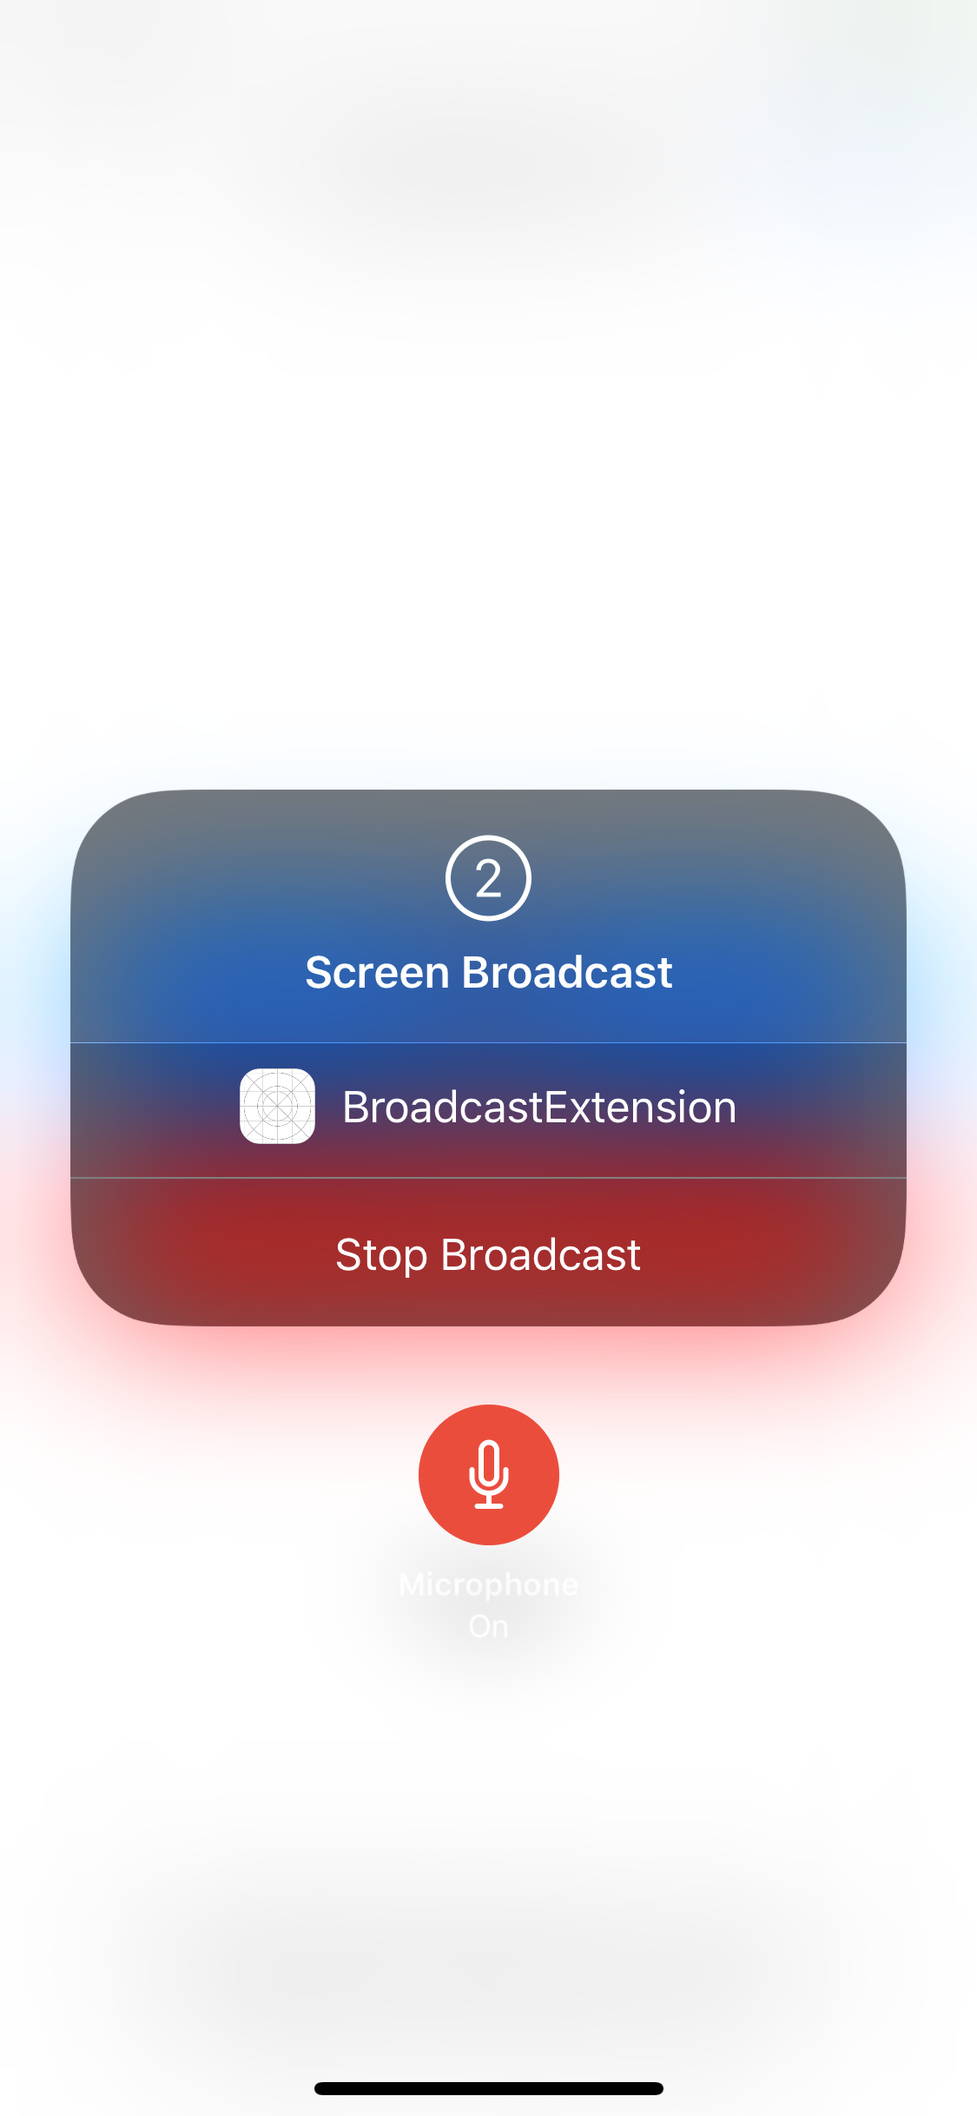
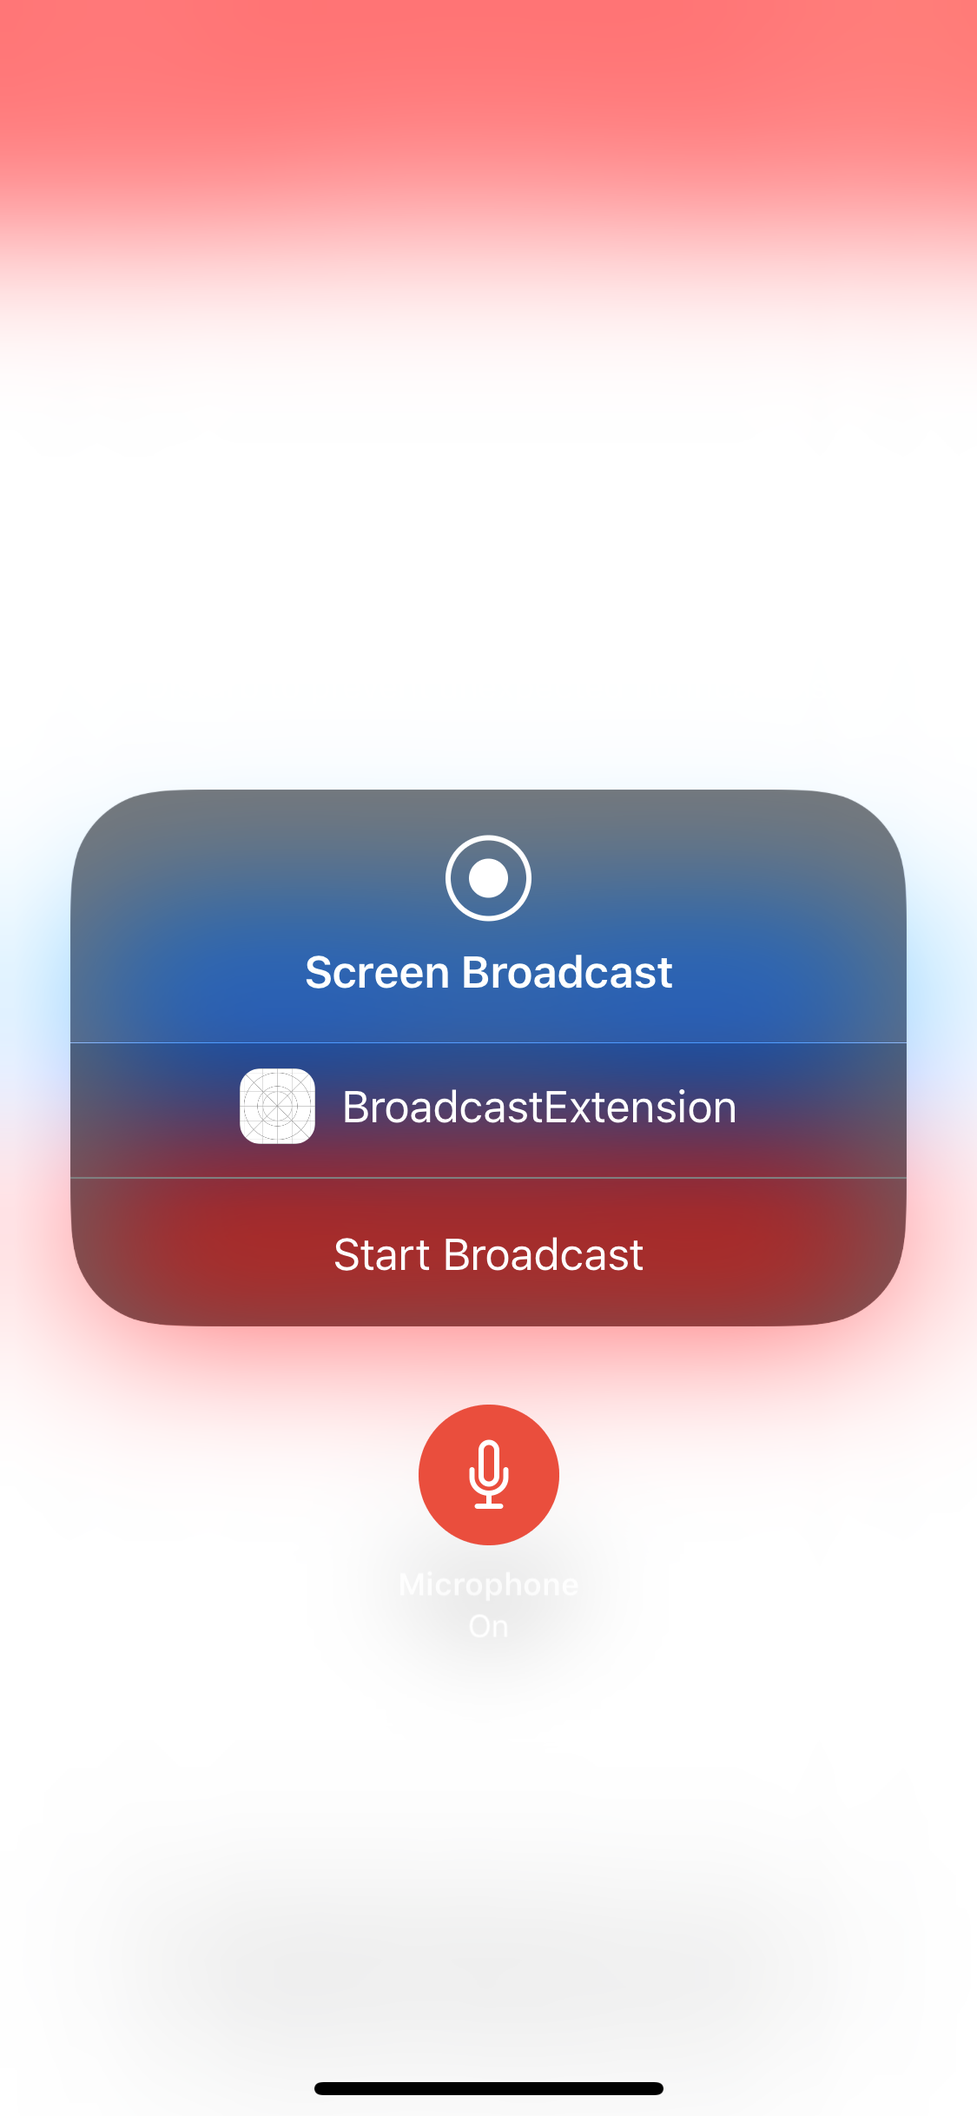
ISDK-1699: Add support for the iPhone X, XS, XR (#315)
* Use safe area for ScreenCapturerExample preview layout.
* Use safe area for AudioDeviceExample preview layout.
* Use safe area for AudioSinkExample layout.
* Local video preview.
* Text label when recognizing audio.
* Automatically hide the home indicator in ARKitExample.
* Settings ViewController UX improvements.
* Use a red theme for ReplayKitExample.
* Theme the UINavigationBar for white tint color, twilio red bar tint, and black bar style.
* Theme the RPBroadcastSystemPickerView to match with white tint.
* Use #if !targetEnvironment(simulator) macro.
* Update the ReplayKit example images.
* Hide auto home indicator when connected to a Room in QS / CallKit QS.

diff --git a/Utils/SettingsTableViewController.swift b/Utils/SettingsTableViewController.swift
@@ -38,6 +38,22 @@ class SettingsTableViewController: UITableViewController {
                                              attributes: [ NSAttributedString.Key.font: disclaimerFont ],
                                              context: nil).size
     }
+
+    @objc func deselectSelectedRow() {
+        if let selectedRow = self.tableView.indexPathForSelectedRow {
+            self.tableView.deselectRow(at: selectedRow, animated: true)
+        }
+    }
+
+    @objc func reloadSelectedRowOrTableView() {
+        if let selectedRow = self.tableView.indexPathForSelectedRow {
+            self.tableView.reloadRows(at: [selectedRow], with: UITableView.RowAnimation.none)
+            self.tableView.selectRow(at: selectedRow, animated: false, scrollPosition: UITableView.ScrollPosition.none)
+            self.tableView.deselectRow(at: selectedRow, animated: true)
+        } else {
+            self.tableView.reloadData()
+        }
+    }
     
     override func numberOfSections(in tableView: UITableView) -> Int {
         return (labels.count)
@@ -138,7 +154,7 @@ class SettingsTableViewController: UITableViewController {
         for codec in selectionArray {
             let selectionButton = UIAlertAction(title: codec.name, style: .default, handler: { (action) -> Void in
                 self.settings.audioCodec = codec
-                self.tableView.reloadData()
+                self.reloadSelectedRowOrTableView()
             })
             
             if (settings.audioCodec == codec) {
@@ -151,7 +167,7 @@ class SettingsTableViewController: UITableViewController {
         // The default action
         defaultButton = UIAlertAction(title: "Default", style: .default, handler: { (action) -> Void in
             self.settings.audioCodec = nil
-            self.tableView.reloadData()
+            self.reloadSelectedRowOrTableView()
         })
         
         if selectedButton == nil {
@@ -167,7 +183,9 @@ class SettingsTableViewController: UITableViewController {
             selectedButton?.setValue("true", forKey: "checked")
             
             // Adding the cancel action
-            let cancelButton = UIAlertAction(title: "Cancel", style: .cancel, handler: { (action) -> Void in })
+            let cancelButton = UIAlertAction(title: "Cancel", style: .cancel, handler: { (action) -> Void in
+                self.deselectSelectedRow()
+            })
             alertController.addAction(cancelButton)
         }
         self.navigationController!.present(alertController, animated: true, completion: nil)
@@ -178,7 +196,7 @@ class SettingsTableViewController: UITableViewController {
         
         let defaultButton = UIAlertAction(title: "Default", style: .default, handler: { (action) -> Void in
             self.settings.videoCodec = nil
-            self.tableView.reloadData()
+            self.reloadSelectedRowOrTableView()
         })
         
         let alertController = UIAlertController(title: self.labels[indexPath.section][indexPath.row], message: nil, preferredStyle: .actionSheet)
@@ -189,7 +207,7 @@ class SettingsTableViewController: UITableViewController {
                                                 style: .default,
                                                 handler: { (action) -> Void in
                 self.settings.videoCodec = codec
-                self.tableView.reloadData()
+                self.reloadSelectedRowOrTableView()
             })
             
             if (settings.videoCodec == codec) {
@@ -222,7 +240,9 @@ class SettingsTableViewController: UITableViewController {
             selectedButton?.setValue("true", forKey: "checked")
             
             // Adding the cancel action
-            let cancelButton = UIAlertAction(title: "Cancel", style: .cancel, handler: { (action) -> Void in })
+            let cancelButton = UIAlertAction(title: "Cancel", style: .cancel, handler: { (action) -> Void in
+                self.deselectSelectedRow()
+            })
             alertController.addAction(cancelButton)
         }
         self.navigationController!.present(alertController, animated: true, completion: nil)
@@ -232,7 +252,7 @@ class SettingsTableViewController: UITableViewController {
         let alertController = UIAlertController(title: self.labels[indexPath.section][indexPath.row], message: nil, preferredStyle: .alert)
         
         alertController.addTextField  { (textField : UITextField!) -> Void in
-            textField.text = String(self.settings.maxAudioBitrate)
+            textField.text = self.settings.maxAudioBitrate == 0 ? "" : String(self.settings.maxAudioBitrate)
             textField.placeholder = "Max audio bitrate"
             textField.keyboardType = .numberPad
         }
@@ -241,12 +261,14 @@ class SettingsTableViewController: UITableViewController {
             let maxAudioBitrate = alertController.textFields![0] as UITextField
             if maxAudioBitrate.text! != "" {
                 self.settings.maxAudioBitrate = UInt(maxAudioBitrate.text!)!
-                self.tableView.reloadData()
+                self.reloadSelectedRowOrTableView()
             }
         })
         alertController.addAction(okAction)
         
-        let cancelAction = UIAlertAction(title: "Cancel", style: .cancel, handler: { (action) -> Void in })
+        let cancelAction = UIAlertAction(title: "Cancel", style: .cancel, handler: { (action) -> Void in
+            self.deselectSelectedRow()
+        })
         alertController.addAction(cancelAction)
         
         if UIDevice.current.userInterfaceIdiom == .pad {
@@ -260,7 +282,7 @@ class SettingsTableViewController: UITableViewController {
         let alertController = UIAlertController(title: self.labels[indexPath.section][indexPath.row], message: nil, preferredStyle: .alert)
         
         alertController.addTextField  { (textField : UITextField!) -> Void in
-            textField.text = String(self.settings.maxVideoBitrate)
+            textField.text = self.settings.maxVideoBitrate == 0 ? "" : String(self.settings.maxVideoBitrate)
             textField.placeholder = "Max video bitrate"
             textField.keyboardType = .numberPad
         }
@@ -269,12 +291,14 @@ class SettingsTableViewController: UITableViewController {
             let maxVideoBitrate = alertController.textFields![0] as UITextField
             if maxVideoBitrate.text! != "" {
                 self.settings.maxVideoBitrate = UInt(maxVideoBitrate.text!)!
-                self.tableView.reloadData()
+                self.reloadSelectedRowOrTableView()
             }
         })
         alertController.addAction(okAction)
         
-        let cancelAction = UIAlertAction(title: "Cancel", style: .cancel, handler: { (action) -> Void in })
+        let cancelAction = UIAlertAction(title: "Cancel", style: .cancel, handler: { (action) -> Void in
+            self.deselectSelectedRow()
+        })
         alertController.addAction(cancelAction)
         
         if UIDevice.current.userInterfaceIdiom == .pad {

diff --git a/AudioSinkExample/ViewController.swift b/AudioSinkExample/ViewController.swift
@@ -137,16 +137,28 @@ class ViewController: UIViewController {
     override func viewWillLayoutSubviews() {
         super.viewWillLayoutSubviews()
 
+        var bottomRight = CGPoint(x: view.bounds.width, y: view.bounds.height)
+        var layoutWidth = view.bounds.width
+        if #available(iOS 11.0, *) {
+            // Ensure the preview fits in the safe area.
+            let safeAreaGuide = self.view.safeAreaLayoutGuide
+            let layoutFrame = safeAreaGuide.layoutFrame
+            bottomRight.x = layoutFrame.origin.x + layoutFrame.width
+            bottomRight.y = layoutFrame.origin.y + layoutFrame.height
+            layoutWidth = layoutFrame.width
+        }
+
         // Layout the speech label.
         if let speechLabel = self.speechLabel {
-            speechLabel.preferredMaxLayoutWidth = view.bounds.width - (kPreviewPadding * 2)
+            speechLabel.preferredMaxLayoutWidth = layoutWidth - (kPreviewPadding * 2)
 
             let constrainedSize = CGSize(width: view.bounds.width,
                                          height: view.bounds.height)
             let fittingSize = speechLabel.sizeThatFits(constrainedSize)
             let speechFrame = CGRect(x: 0,
-                                     y: view.bounds.height - fittingSize.height - kTextBottomPadding,
-                                     width: view.bounds.width, height: fittingSize.height + kTextBottomPadding)
+                                     y: bottomRight.y - fittingSize.height - kTextBottomPadding,
+                                     width: view.bounds.width,
+                                     height: (view.bounds.height - bottomRight.y) + fittingSize.height + kTextBottomPadding)
             speechLabel.frame = speechFrame.integral
         }
 
@@ -154,18 +166,17 @@ class ViewController: UIViewController {
         if let previewView = self.camera?.previewView {
             let dimensions = previewView.videoDimensions
             var previewBounds = CGRect.init(origin: CGPoint.zero, size: CGSize.init(width: 160, height: 160))
-
-            previewBounds = AVMakeRect(aspectRatio: CGSize.init(width: CGFloat(dimensions.width), height: CGFloat(dimensions.height)),
+            previewBounds = AVMakeRect(aspectRatio: CGSize.init(width: CGFloat(dimensions.width),
+                                                                height: CGFloat(dimensions.height)),
                                        insideRect: previewBounds)
 
             previewBounds = previewBounds.integral
             previewView.bounds = previewBounds
-
-            previewView.center = CGPoint.init(x: view.bounds.width - previewBounds.width / 2 - kPreviewPadding,
-                                              y: view.bounds.height - previewBounds.height / 2 - kPreviewPadding)
+            previewView.center = CGPoint.init(x: bottomRight.x - previewBounds.width / 2 - kPreviewPadding,
+                                              y: bottomRight.y - previewBounds.height / 2 - kPreviewPadding)
 
             if let speechLabel = self.speechLabel {
-                previewView.center.y -= speechLabel.bounds.height + kPreviewPadding;
+                previewView.center.y = speechLabel.frame.minY - (2.0 * kPreviewPadding) - (previewBounds.height / 2.0);
             }
         }
     }

diff --git a/ScreenCapturerExample/ViewController.swift b/ScreenCapturerExample/ViewController.swift
@@ -51,19 +51,29 @@ class ViewController : UIViewController {
 
         webView?.frame = self.view.bounds
 
-        // Layout the remote video using frame based techniques. It's also possible to do this using autolayout
-        if ((remoteView?.hasVideoData)!) {
-            let dimensions = remoteView?.videoDimensions
-            let remoteRect = remoteViewSize()
-            let aspect = CGSize(width: CGFloat((dimensions?.width)!), height: CGFloat((dimensions?.height)!))
-            let padding : CGFloat = 10.0
-            let boundedRect = AVMakeRect(aspectRatio: aspect, insideRect: remoteRect).integral
-            remoteView?.frame = CGRect(x: self.view.bounds.width - boundedRect.width - padding,
-                                       y: self.view.bounds.height - boundedRect.height - padding,
-                                       width: boundedRect.width,
-                                       height: boundedRect.height)
-        } else {
-            remoteView?.frame = CGRect.zero
+        // Layout the remote video using frame based techniques. It's also possible to do this using autolayout.
+        if let remoteView = self.remoteView {
+            if remoteView.hasVideoData {
+                var bottomRight = CGPoint(x: view.bounds.width, y: view.bounds.height)
+                if #available(iOS 11.0, *) {
+                    // Ensure the preview fits in the safe area.
+                    let safeAreaGuide = self.view.safeAreaLayoutGuide
+                    let layoutFrame = safeAreaGuide.layoutFrame
+                    bottomRight.x = layoutFrame.origin.x + layoutFrame.width
+                    bottomRight.y = layoutFrame.origin.y + layoutFrame.height
+                }
+                let dimensions = remoteView.videoDimensions
+                let remoteRect = remoteViewSize()
+                let aspect = CGSize(width: CGFloat(dimensions.width), height: CGFloat(dimensions.height))
+                let padding : CGFloat = 10.0
+                let boundedRect = AVMakeRect(aspectRatio: aspect, insideRect: remoteRect).integral
+                remoteView.frame = CGRect(x: bottomRight.x - boundedRect.width - padding,
+                                          y: bottomRight.y - boundedRect.height - padding,
+                                          width: boundedRect.width,
+                                          height: boundedRect.height)
+            } else {
+                remoteView.frame = CGRect.zero
+            }
         }
     }
 

diff --git a/ReplayKitExample/ReplayKitExample/ViewController.swift b/ReplayKitExample/ReplayKitExample/ViewController.swift
@@ -55,6 +55,13 @@ class ViewController: UIViewController, RPBroadcastActivityViewControllerDelegat
         broadcastButton.layer.cornerRadius = 4
         conferenceButton?.layer.cornerRadius = 4
 
+        self.navigationController?.navigationBar.barTintColor = UIColor.init(red: 226.0/255.0,
+                                                                             green: 29.0/255.0,
+                                                                             blue: 37.0/255.0,
+                                                                             alpha: 1.0)
+        self.navigationController?.navigationBar.tintColor = UIColor.white
+        self.navigationController?.navigationBar.barStyle = UIBarStyle.black
+
         // The setter fires an availability changed event, but we check rather than rely on this implementation detail.
         RPScreenRecorder.shared().delegate = self
         checkRecordingAvailability()
@@ -78,14 +85,19 @@ class ViewController: UIViewController, RPBroadcastActivityViewControllerDelegat
     @available(iOS 12.0, *)
     func setupPickerView() {
         // Swap the button for an RPSystemBroadcastPickerView.
-        // TODO: Use #if targetEnvironment(simulator) after upgrading the examples to Swift 4.2.
-        #if arch(arm64)
+        #if !targetEnvironment(simulator)
         let pickerView = RPSystemBroadcastPickerView(frame: CGRect(x: 0,
                                                                    y: 0,
                                                                    width: view.bounds.width,
                                                                    height: 80))
         pickerView.translatesAutoresizingMaskIntoConstraints = false
         pickerView.preferredExtension = ViewController.kBroadcastExtensionBundleId
+
+        // Theme the picker view to match the white that we want.
+        if let button = pickerView.subviews.first as? UIButton {
+            button.imageView?.tintColor = UIColor.white
+        }
+
         view.addSubview(pickerView)
 
         self.broadcastPickerView = pickerView

diff --git a/AudioDeviceExample/ViewController.swift b/AudioDeviceExample/ViewController.swift
@@ -233,17 +233,25 @@ class ViewController: UIViewController {
 
         // Layout the preview view.
         if let previewView = self.camera?.previewView {
+            var bottomRight = CGPoint(x: view.bounds.width, y: view.bounds.height)
+            if #available(iOS 11.0, *) {
+                // Ensure the preview fits in the safe area.
+                let safeAreaGuide = self.view.safeAreaLayoutGuide
+                let layoutFrame = safeAreaGuide.layoutFrame
+                bottomRight.x = layoutFrame.origin.x + layoutFrame.width
+                bottomRight.y = layoutFrame.origin.y + layoutFrame.height
+            }
+
             let dimensions = previewView.videoDimensions
             var previewBounds = CGRect.init(origin: CGPoint.zero, size: CGSize.init(width: 160, height: 160))
-
-            previewBounds = AVMakeRect(aspectRatio: CGSize.init(width: CGFloat(dimensions.width), height: CGFloat(dimensions.height)),
+            previewBounds = AVMakeRect(aspectRatio: CGSize.init(width: CGFloat(dimensions.width),
+                                                                height: CGFloat(dimensions.height)),
                                        insideRect: previewBounds)
 
             previewBounds = previewBounds.integral
             previewView.bounds = previewBounds
-
-            previewView.center = CGPoint.init(x: view.bounds.width - previewBounds.width / 2 - kPreviewPadding,
-                                              y: view.bounds.height - previewBounds.height / 2 - kPreviewPadding)
+            previewView.center = CGPoint.init(x: bottomRight.x - previewBounds.width / 2 - kPreviewPadding,
+                                              y: bottomRight.y - previewBounds.height / 2 - kPreviewPadding)
         }
     }
 

diff --git a/ARKitExample/ViewController.swift b/ARKitExample/ViewController.swift
@@ -77,6 +77,10 @@ class ViewController: UIViewController {
         // Release any cached data, images, etc that aren't in use.
     }
 
+    override var prefersHomeIndicatorAutoHidden: Bool {
+        return self.room != nil
+    }
+
     @objc func displayLinkDidFire(timer: CADisplayLink) {
         // Our capturer polls the ARSCNView's snapshot for processed AR video content, and then copies the result into a CVPixelBuffer.
         // This process is not ideal, but it is the most straightforward way to capture the output of SceneKit.
@@ -167,7 +171,20 @@ extension ViewController: TVIRoomDelegate {
         let cancelAction = UIAlertAction.init(title: "Okay", style: UIAlertAction.Style.default, handler: nil)
         alertController.addAction(cancelAction)
 
-        self.present(alertController, animated: true, completion: nil)
+        self.present(alertController, animated: true) {
+            self.room = nil
+            self.setNeedsUpdateOfHomeIndicatorAutoHidden()
+        }
+    }
+
+    func room(_ room: TVIRoom, didDisconnectWithError error: Error?) {
+        if let error = error {
+            print("Disconnected from the Room with an error:", error)
+        } else {
+            print("Disconnected from the Room.")
+        }
+        self.room = nil
+        self.setNeedsUpdateOfHomeIndicatorAutoHidden()
     }
 
     func room(_ room: TVIRoom, participantDidConnect participant: TVIRemoteParticipant) {

diff --git a/VideoCallKitQuickStart/ViewController.swift b/VideoCallKitQuickStart/ViewController.swift
@@ -102,6 +102,10 @@ class ViewController: UIViewController {
         let tap = UITapGestureRecognizer(target: self, action: #selector(ViewController.dismissKeyboard))
         self.view.addGestureRecognizer(tap)
     }
+
+    override var prefersHomeIndicatorAutoHidden: Bool {
+        return self.room != nil
+    }
     
     func setupRemoteVideoView() {
         // Creating `TVIVideoView` programmatically
@@ -233,6 +237,11 @@ class ViewController: UIViewController {
         self.disconnectButton.isHidden = !inRoom
         self.navigationController?.setNavigationBarHidden(inRoom, animated: true)
         UIApplication.shared.isIdleTimerDisabled = inRoom
+
+        // Show / hide the automatic home indicator on modern iPhones.
+        if #available(iOS 11.0, *) {
+            self.setNeedsUpdateOfHomeIndicatorAutoHidden()
+        }
     }
     
     @objc func dismissKeyboard() {

diff --git a/VideoQuickStart/ViewController.swift b/VideoQuickStart/ViewController.swift
@@ -66,6 +66,10 @@ class ViewController: UIViewController {
         let tap = UITapGestureRecognizer(target: self, action: #selector(ViewController.dismissKeyboard))
         self.view.addGestureRecognizer(tap)
     }
+
+    override var prefersHomeIndicatorAutoHidden: Bool {
+        return self.room != nil
+    }
     
     func setupRemoteVideoView() {
         // Creating `TVIVideoView` programmatically
@@ -242,6 +246,11 @@ class ViewController: UIViewController {
         self.disconnectButton.isHidden = !inRoom
         self.navigationController?.setNavigationBarHidden(inRoom, animated: true)
         UIApplication.shared.isIdleTimerDisabled = inRoom
+
+        // Show / hide the automatic home indicator on modern iPhones.
+        if #available(iOS 11.0, *) {
+            self.setNeedsUpdateOfHomeIndicatorAutoHidden()
+        }
     }
     
     @objc func dismissKeyboard() {

diff --git a/ScreenCapturerExample/AppDelegate.swift b/ScreenCapturerExample/AppDelegate.swift
@@ -12,7 +12,6 @@ class AppDelegate: UIResponder, UIApplicationDelegate {
 
     var window: UIWindow?
 
-
     func application(_ application: UIApplication, didFinishLaunchingWithOptions launchOptions: [UIApplication.LaunchOptionsKey: Any]?) -> Bool {
         // Override point for customization after application launch.
         return true
